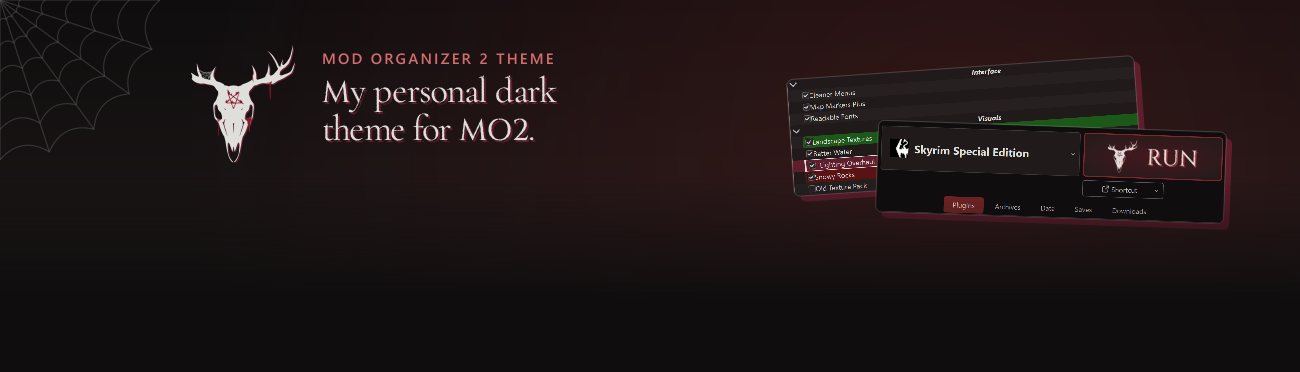
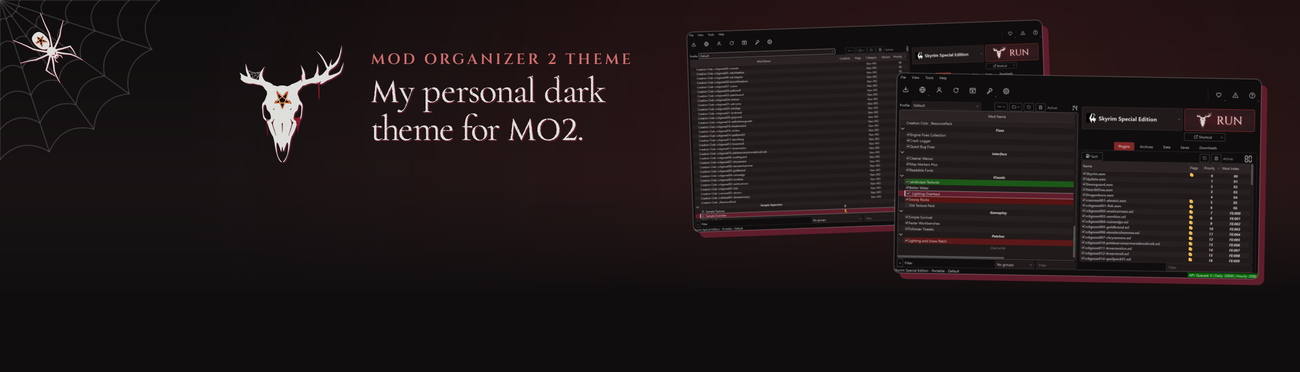
Bug-report block, button v4, spider header
Public 1.0.0 tree built from e8b7496cc49e.

Changed region(s): [[0.5231, 0.0296, 0.9846, 0.7688], [0.1231, 0.1183, 0.4923, 0.414], [0.0, 0.0591, 0.0615, 0.207]]

diff --git a/README.md b/README.md
@@ -57,7 +57,7 @@ Don't install it as a mod from MO2's Downloads tab: themes go in MO2's own `styl
 
 ## More by sayngwyn
 
-[![All my mods on Nexus, every game](https://sayngwyn.com/img/mods/button-all-mods-v3.png)](https://www.nexusmods.com/profile/sayngwyn/mods)
+[![All my mods on Nexus, every game](https://sayngwyn.com/img/mods/button-all-mods-v4.png)](https://www.nexusmods.com/profile/sayngwyn/mods)
 
 Also on [my website](https://sayngwyn.com/projects).
 
@@ -82,8 +82,14 @@ environment.
 
 ## Report a problem
 
-Open an issue on [GitHub](https://github.com/sayngwyn/sayngwyn-theme/issues) or post in **Bugs** on the Nexus page, with a
-screenshot and your MO2 version. You can also find me on [Discord](https://discord.com/invite/sayngwyn).
+**Found a bug?** Open an issue on [GitHub](https://github.com/sayngwyn/sayngwyn-theme/issues) or post on the Nexus page's
+Bugs tab, with your MO2 version, what you saw, and a screenshot. I need the screenshot for every report, because it shows
+what the theme actually drew.
+
+Reports without a screenshot and your MO2 version are closed after 14 days. Post them later and I'll reopen the report.
+
+Screenshots can show your Windows username in a title bar, so crop it out. You can also bring it to
+[Discord](https://discord.com/invite/sayngwyn).
 
 ---
 
